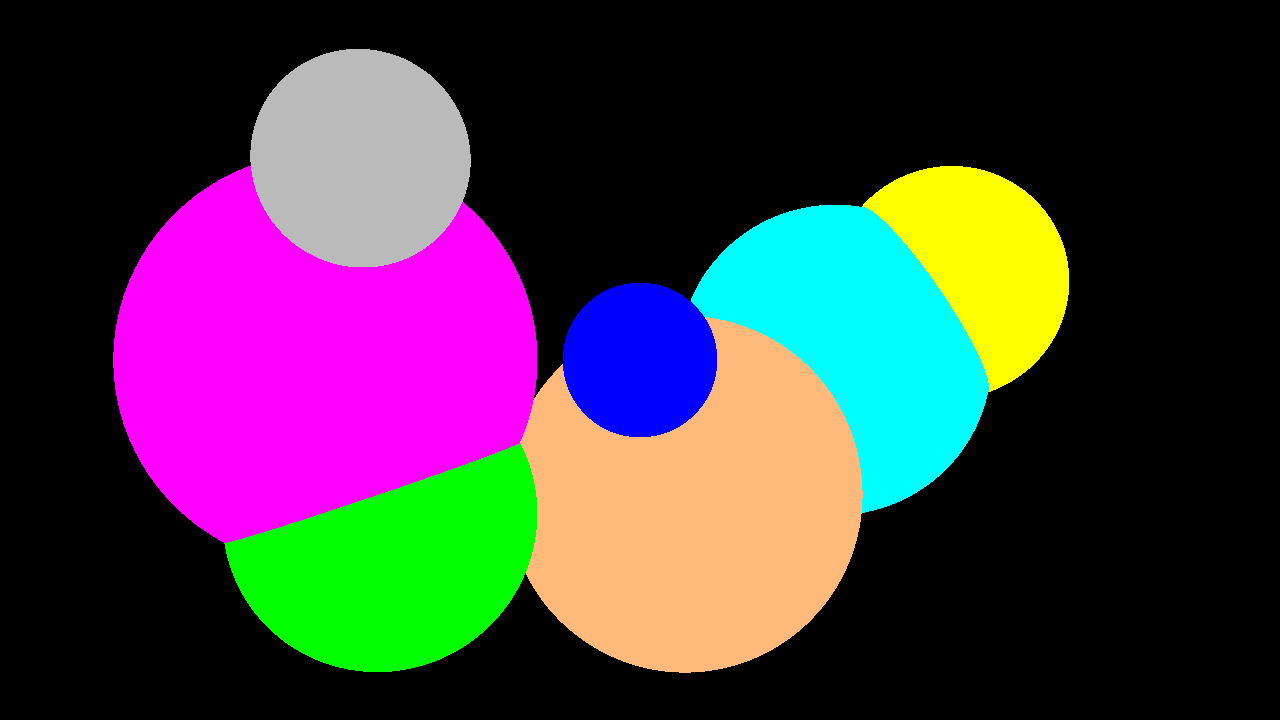
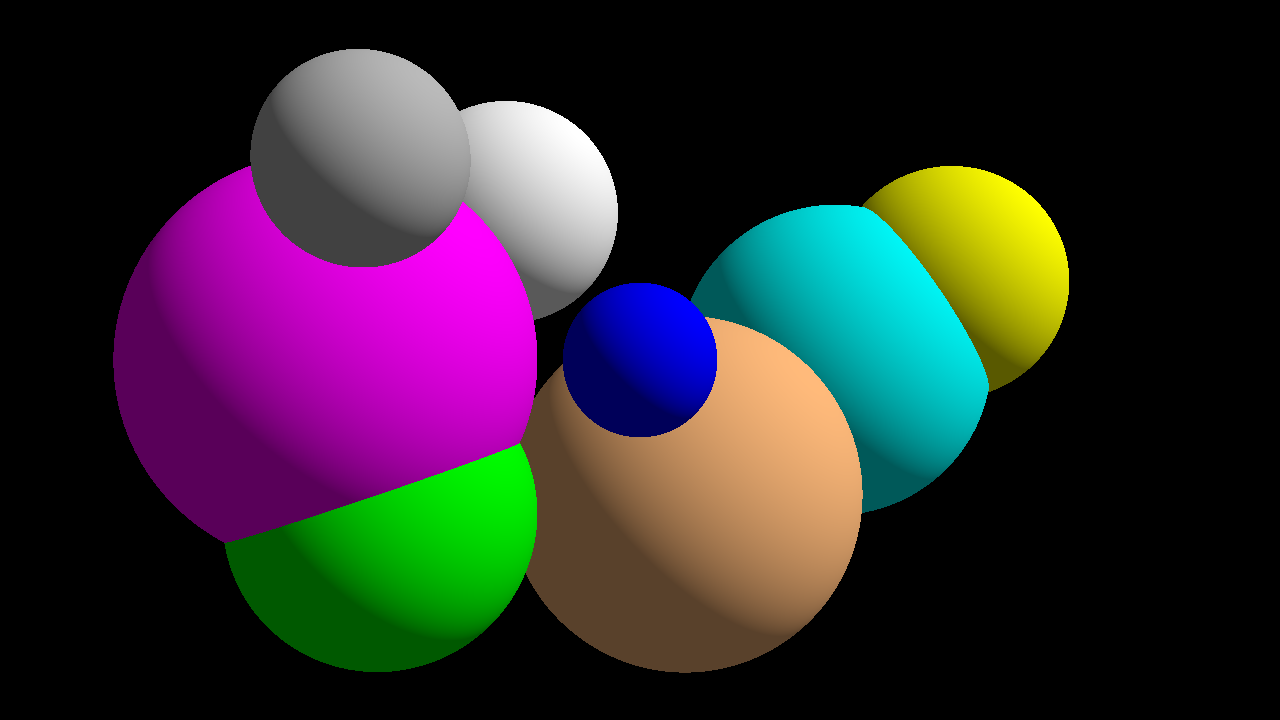
completed A2.4

diff --git a/src/app/Raytracer.java b/src/app/Raytracer.java
@@ -5,6 +5,7 @@ import java.util.ArrayList;
 import cgg_tools.Color;
 import cgg_tools.Sampler;
 import cgg_tools.Vec2;
+import cgg_tools.Vec3;
 
 public class Raytracer implements Sampler{
     Camera cam;
@@ -20,6 +21,14 @@ public class Raytracer implements Sampler{
     public void addSphere(Sphere s) {
         if(s == null) throw new IllegalArgumentException();
         scene.add(s);
+    }
+
+    static Color shade(Vec3 normal, Color color) {
+        Vec3 lightDir = Vec3.normalize(new Vec3(1, 1, 0.5));
+        double cos_angle = Math.max(0, Vec3.dot(lightDir, normal));
+        Color ambient = Color.multiply(0.1, color);
+        Color diffuse = Color.multiply(0.9 * cos_angle, color);
+        return Color.add(ambient, diffuse);
     }
 
     @Override
@@ -38,7 +47,7 @@ public class Raytracer implements Sampler{
         if(bestHit == null) {
             return background;
         }
-        return bestHit.c();
+        return shade(bestHit.n(), bestHit.c());
     }
     
 }

diff --git a/src/app/app.java b/src/app/app.java
@@ -27,6 +27,7 @@ public class app {
     rt.addSphere(new Sphere(new Vec3(5, 0, -40), 4, Color.cyan));
     rt.addSphere(new Sphere(new Vec3(8, 2, -40), 3, Color.yellow));    
     rt.addSphere(new Sphere(new Vec3(-1.8, 1.3, -10), 0.7, Color.gray));    
+    rt.addSphere(new Sphere(new Vec3(-1.8, 2, -21), 1.5, Color.white));    
 
     // iterate over all pixel of the image
     var image = new Image(width, height);
